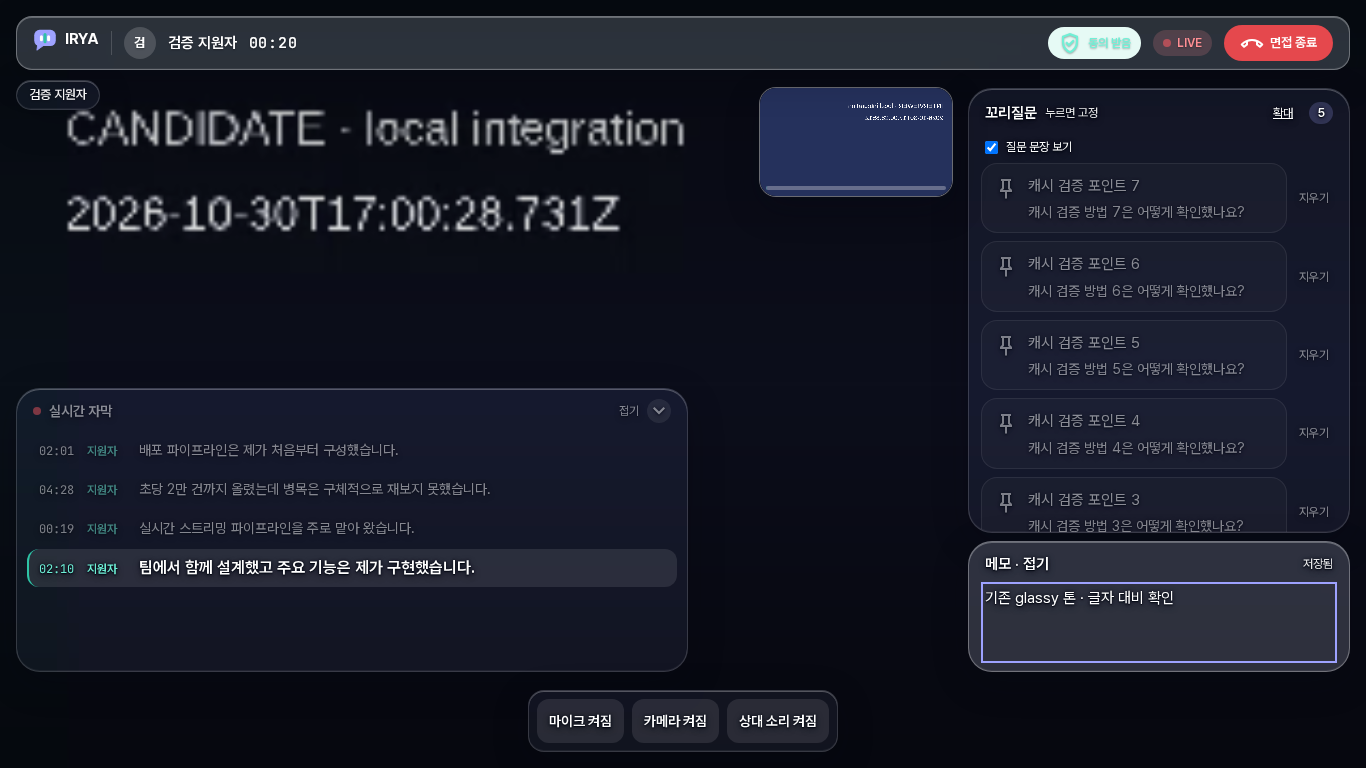
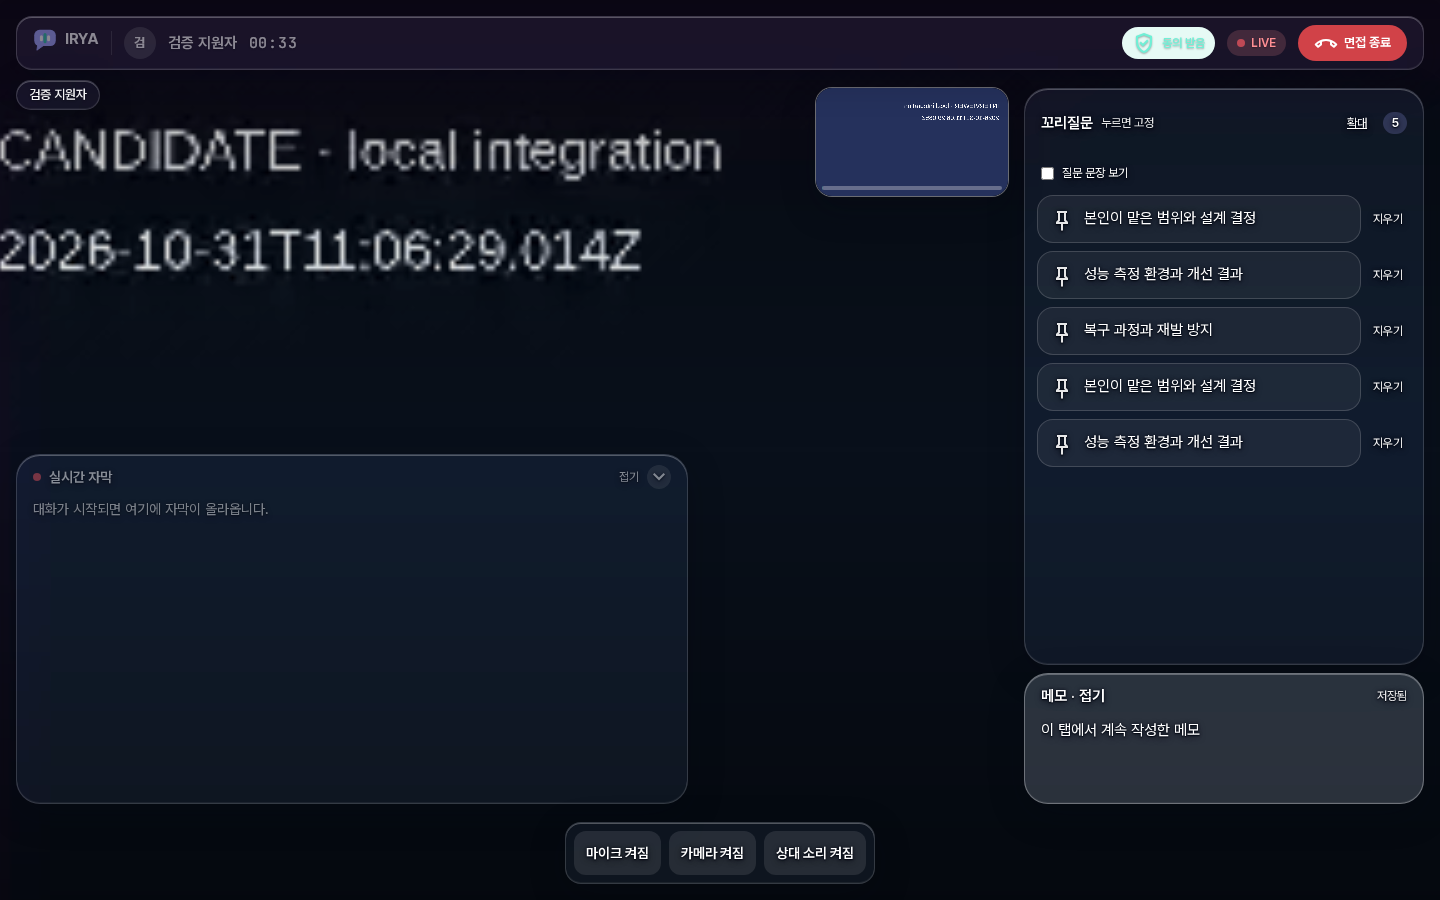
test(fe): 질문 가독성과 메모 충돌 보완 화면을 다시 촬영한다

diff --git a/frontend/docs/screenshots/248-room/README.md b/frontend/docs/screenshots/248-room/README.md
@@ -7,3 +7,7 @@
 - 밝은/어두운 인공 영상과 1366×768·375×812의 실제 로컬 화면을 캡처했다. 원본 PR의 사진5개를 새 촬영본으로 교체하고 어두운 배경2개를 추가했다.
 - 실제 API/WS/PostgreSQL/LiveKit을 사용했다. 영상은 canvas/AudioContext 인공 트랙, STT/질문/사전 가공/검토는 고정 입력이며 외부 모델·물리 기기·Egress 품질 검증과 구분한다.
 - 저장 실패 입력·계정/면접별 초안 복구·세션 종료·동의 계약 처리는 유지했다.
+
+## 2026-10-31 리뷰 보완
+
+질문 기본 opacity 1·Glassy 유지, 면접관 전용 재생 제어, 두 탭 메모 충돌과 새로고침 후 명시 재적용을 실제 로컬 API·PostgreSQL·LiveKit 인공 트랙으로 확인했습니다. 모바일 충돌 안내는 내부 스크롤로 재저장 버튼에 접근합니다. 실제 STT/LLM·물리 기기·녹화 품질 검증은 아닙니다.
